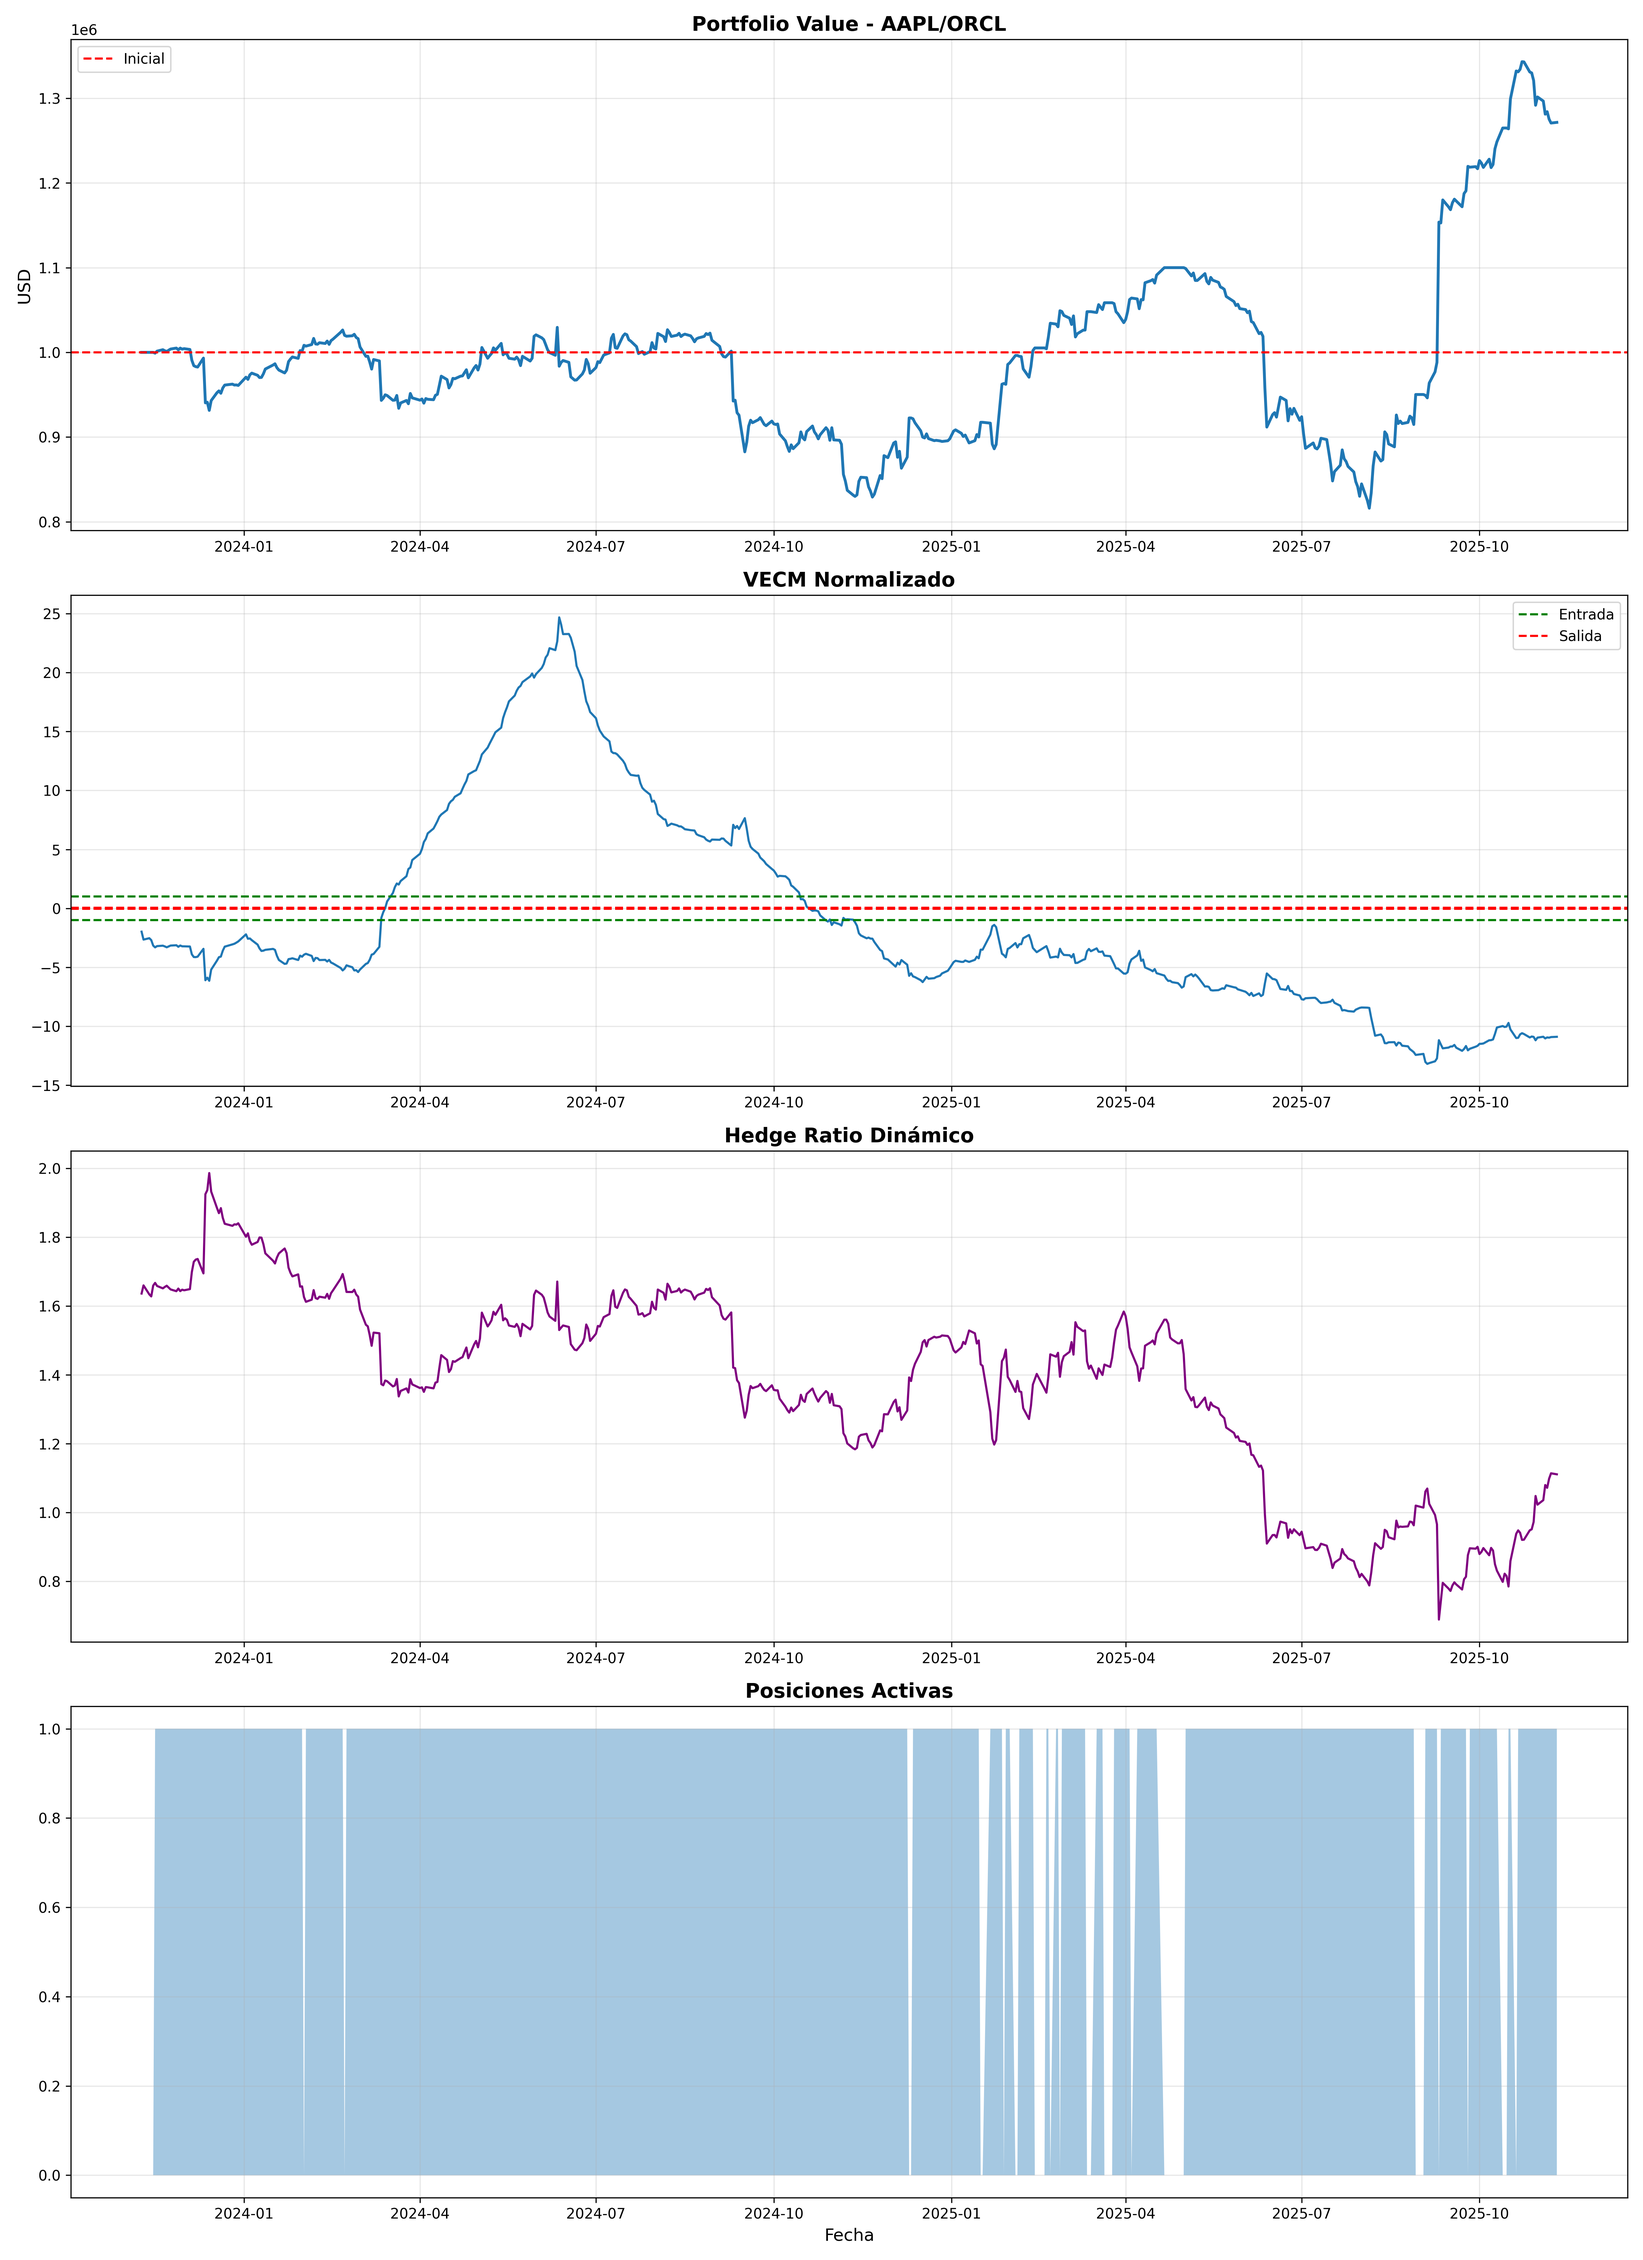
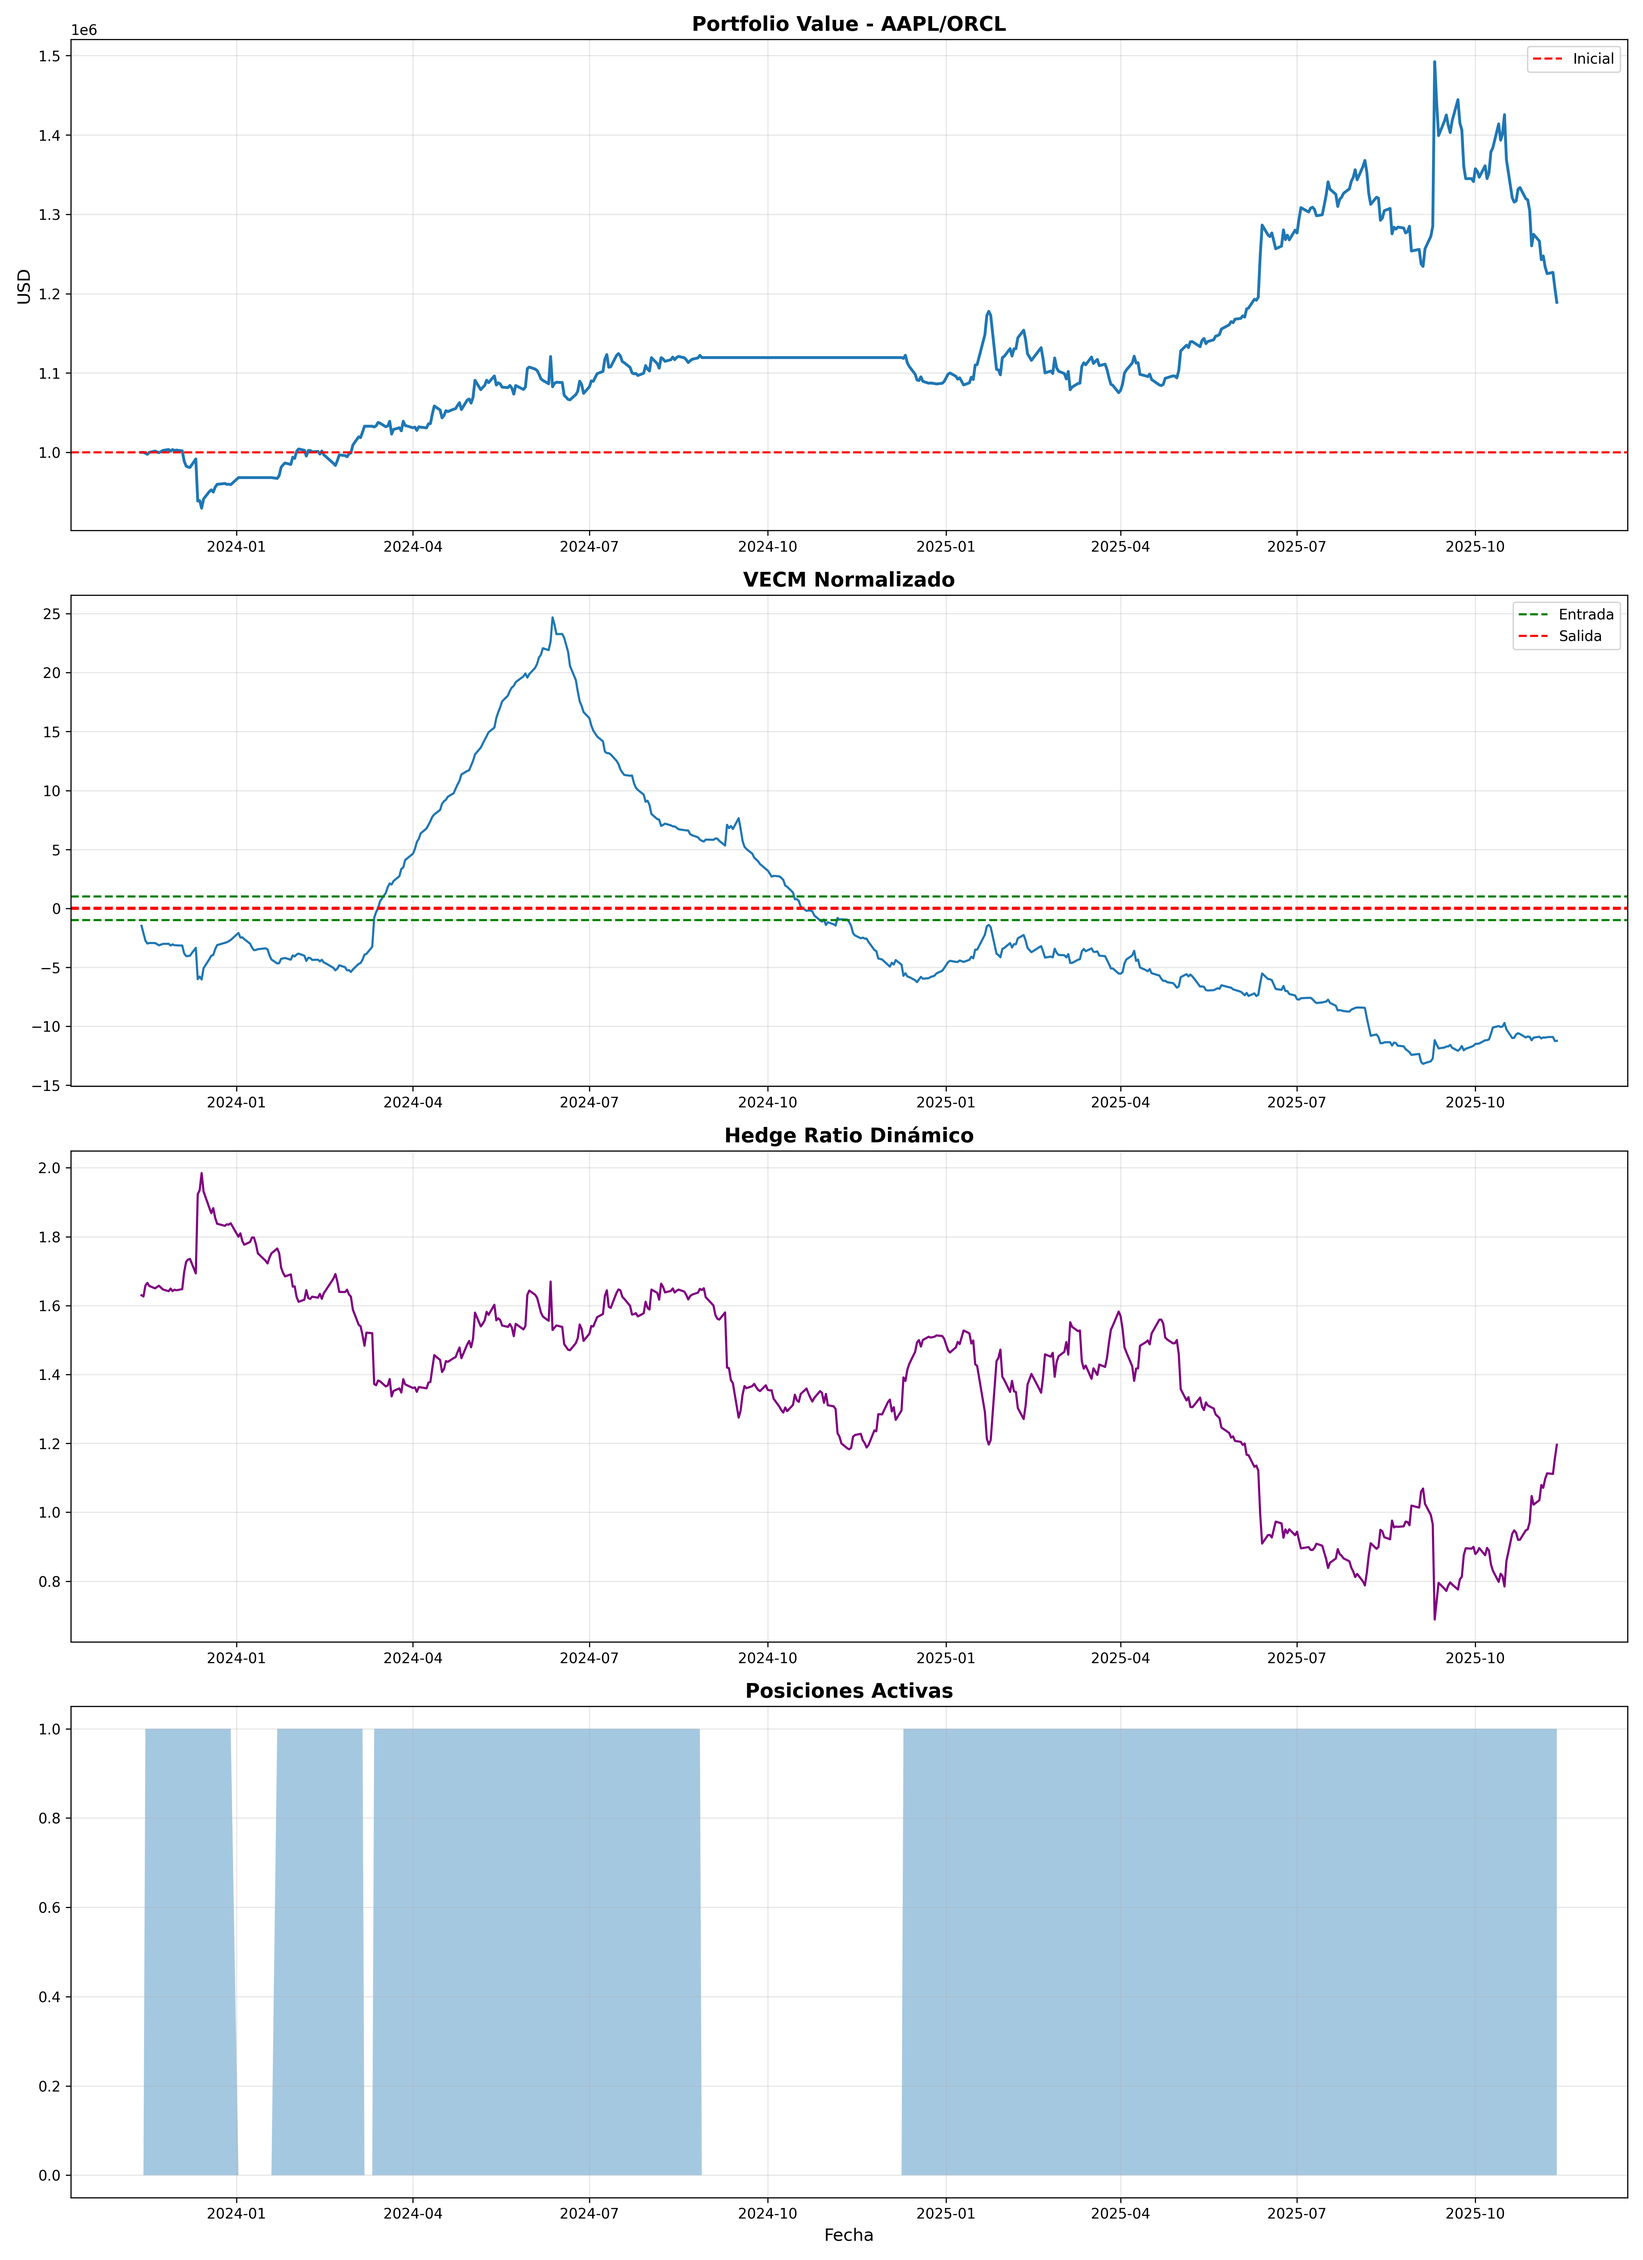
correcion calmar y theta

diff --git a/backtesting.py b/backtesting.py
@@ -329,12 +329,12 @@ class PairTradingBacktest:
 
                 #calcular vecm 
                 vecm_current = e1_hat * p1 + e2_hat * p2
-                
-                #calcular el vecm por ventanas de 252
-                vecm_window = []
-                for j in range(len(window_data)):
-                    vecm_j = e1_hat * window_data['stock_a'].iloc[j] + e2_hat * window_data['stock_b'].iloc[j]
-                    vecm_window.append(vecm_j)
+                self.vecms_hat.append(vecm_current)
+
+                if len(self.vecms_hat) >= 252:
+                    vecm_window = self.vecms_hat[-252:]
+                else:
+                    vecm_window = self.vecms_hat
             
                 # Normalizar VECM
                 vecm_mean = np.mean(vecm_window)
@@ -527,8 +527,8 @@ def walk_forward_analysis(train_df: pd.DataFrame,
         print("FASE 1: OPTIMIZACIÓN EN VALIDATION SET")
         print("-" * 60)
 
-    theta_grid = [0.1, 0.2, 0.3, 0.4, 0.5]
-    best_sharpe = -np.inf
+    theta_grid = [0.5, 0.6, 0.7, 0.8, 0.9, 1.0, 1.1, 1.2, 1.3, 1.4, 1.5]
+    best_calmar = -np.inf
     best_params = None
     validation_results = []
 
@@ -551,8 +551,9 @@ def walk_forward_analysis(train_df: pd.DataFrame,
             validation_results.append({
                 'theta': theta,
                 'config': config,
-                'sharpe': metrics['sharpe_ratio'],
+                'calmar': metrics['calmar_ratio'],
                 'sortino': metrics['sortino_ratio'],
+                'sharpe': metrics['sharpe_ratio'],
                 'return': metrics['total_return_pct'],
                 'max_dd': metrics['max_drawdown_pct'],
                 'trades': metrics['total_trades'],
@@ -564,11 +565,12 @@ def walk_forward_analysis(train_df: pd.DataFrame,
                       f"{metrics['total_return_pct']:<12.2f} "
                       f"{metrics['sharpe_ratio']:<10.3f} "
                       f"{metrics['sortino_ratio']:<10.3f} "
+                      f"{metrics['calmar_ratio']:<10.3f} "
                       f"{metrics['max_drawdown_pct']:<10.2f}")
                 
             if metrics['total_trades'] >= 3:
-                if metrics['sharpe_ratio'] > best_sharpe:
-                    best_sharpe = metrics['sharpe_ratio']
+                if metrics['calmar_ratio'] > best_sortino:
+                    best_calmar = metrics['calmar_ratio']
                     best_params = config.copy()
         
         except Exception as e:
@@ -581,10 +583,10 @@ def walk_forward_analysis(train_df: pd.DataFrame,
 
     if best_params is None:
         if len(validation_results) > 0:
-            validation_results.sort(key=lambda x: (x['trades'], x['sharpe']), reverse=True)
+            validation_results.sort(key=lambda x: (x['trades'], x['calmar']), reverse=True)
             best_result = validation_results[0]
             best_params = best_result['config']
-            best_sharpe = best_result['sharpe']
+            best_sortino = best_result['calmar']
 
             if verbose:
                 print("\n Ninguna configuración funcionó. Usando parámetros por defecto.")
@@ -599,7 +601,7 @@ def walk_forward_analysis(train_df: pd.DataFrame,
                 'kalman1_process_noise': 0.01,
                 'kalman2_process_noise': 0.001
             }
-            best_sharpe = 0
+            best_calmar = 0
     
     if verbose:
         print(f"\n{'='*60}")
@@ -608,16 +610,19 @@ def walk_forward_analysis(train_df: pd.DataFrame,
         print(f"  Theta (θ): {best_params['theta']:.3f}")
         print(f"  Kalman 1 process noise: {best_params['kalman1_process_noise']}")
         print(f"  Kalman 2 process noise: {best_params['kalman2_process_noise']}")
-        print(f"  Sharpe en Validation: {best_sharpe:.3f}")
+        print(f"  Sortino en Validation: {best_calmar:.3f}")
         print(f"{'='*60}\n")
 
         print("Top configuraciones:")
-        validation_results.sort(key=lambda x: x['sharpe'], reverse=True)
+        validation_results.sort(key=lambda x: x['sortino'], reverse=True)
         for i, result in enumerate(validation_results[:5], 1):
             print(f"{i}. θ={result['config']['theta']:.2f} | "
+                  f"Calmar={result['calmar']:.3f} | "
                   f"Sharpe={result['sharpe']:.3f} | "
                   f"Sortino={result['sortino']:.3f} | "
-                  f"Return={result['return']:.2f}% ")
+                  f"Return={result['return']:.2f}% "
+                  f"MaxDD={result['max_dd']:.2f}% | "
+                  f"Trades={result['trades']} ")
         
         print("\nFASE 2: TESTING CON MEJORES PARÁMETROS")
         print("-" * 60)
